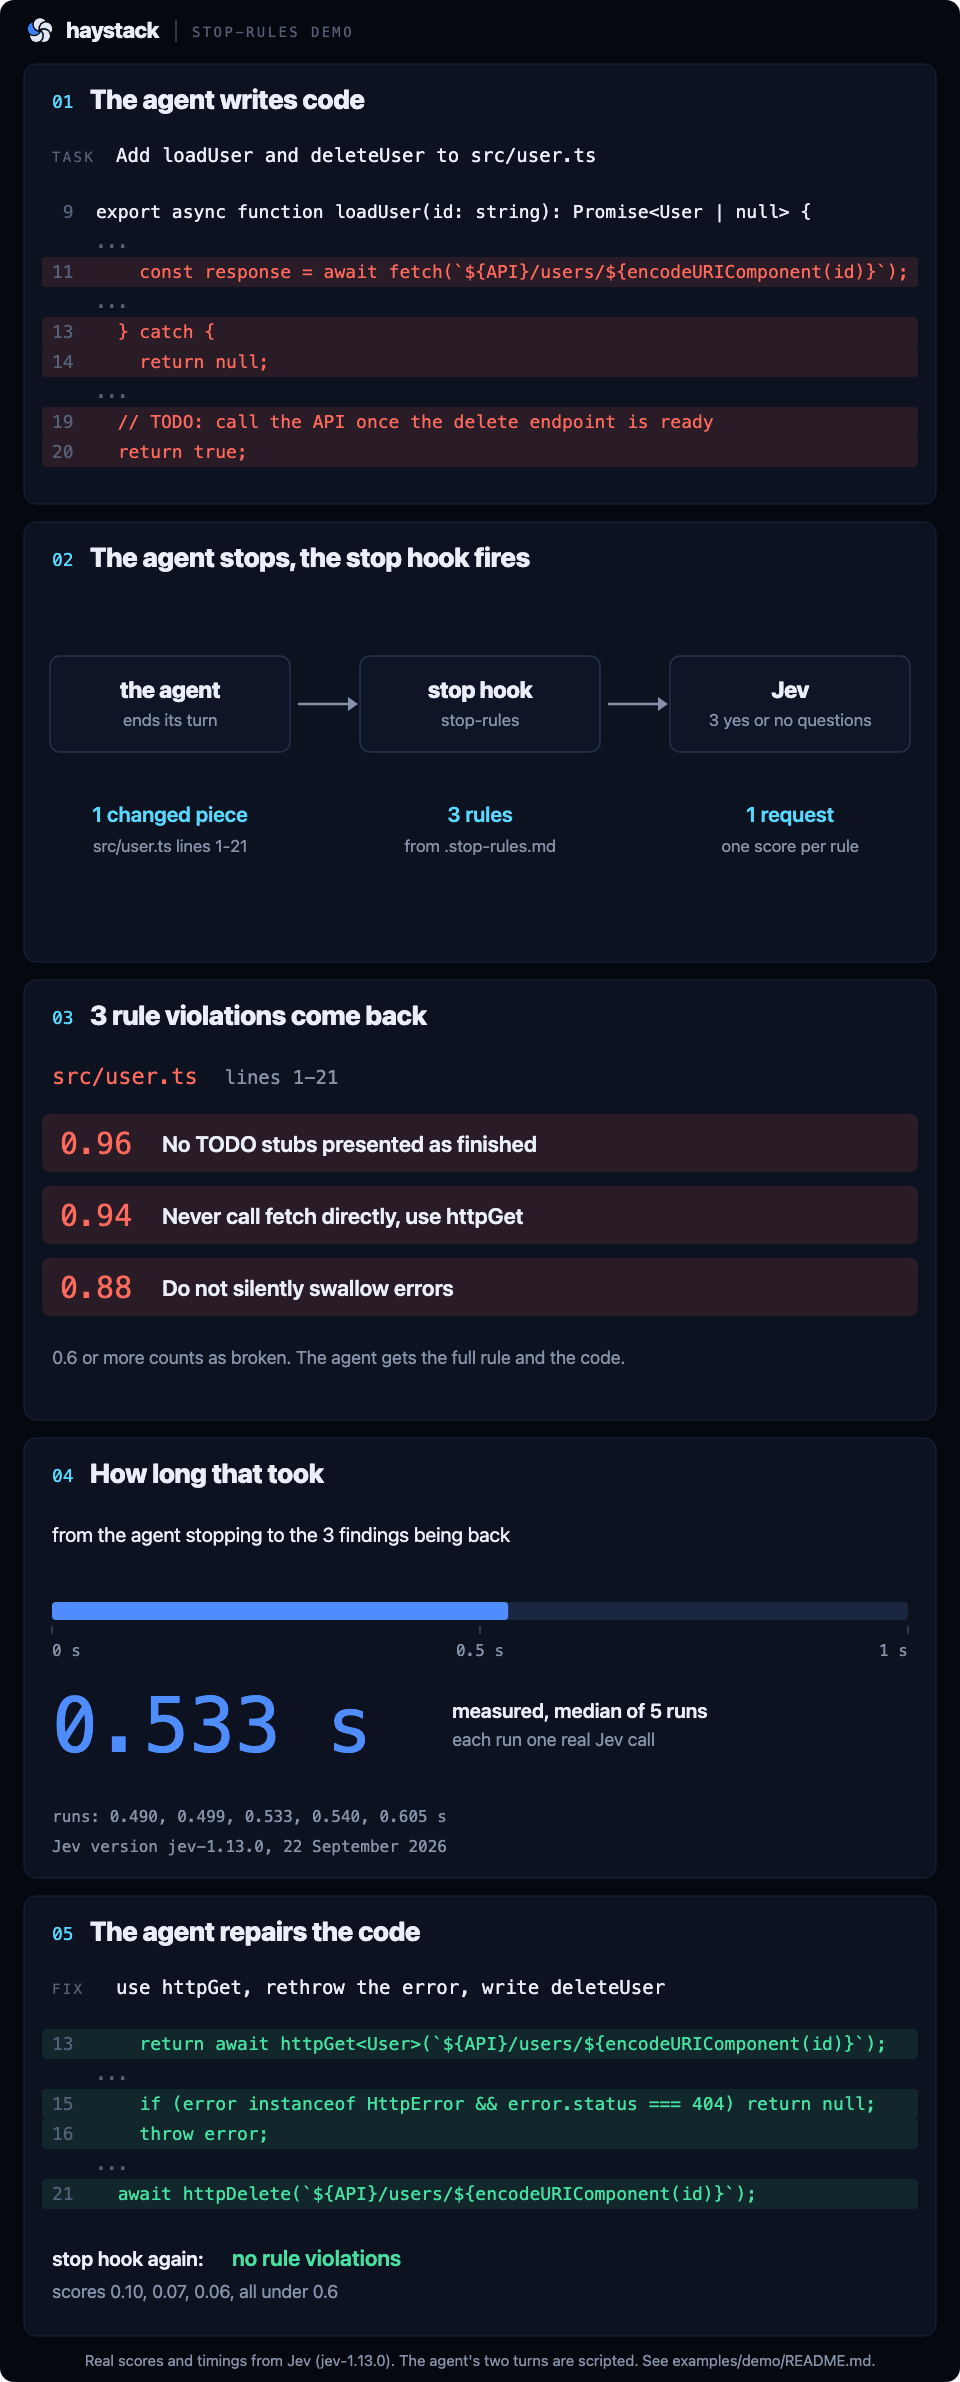
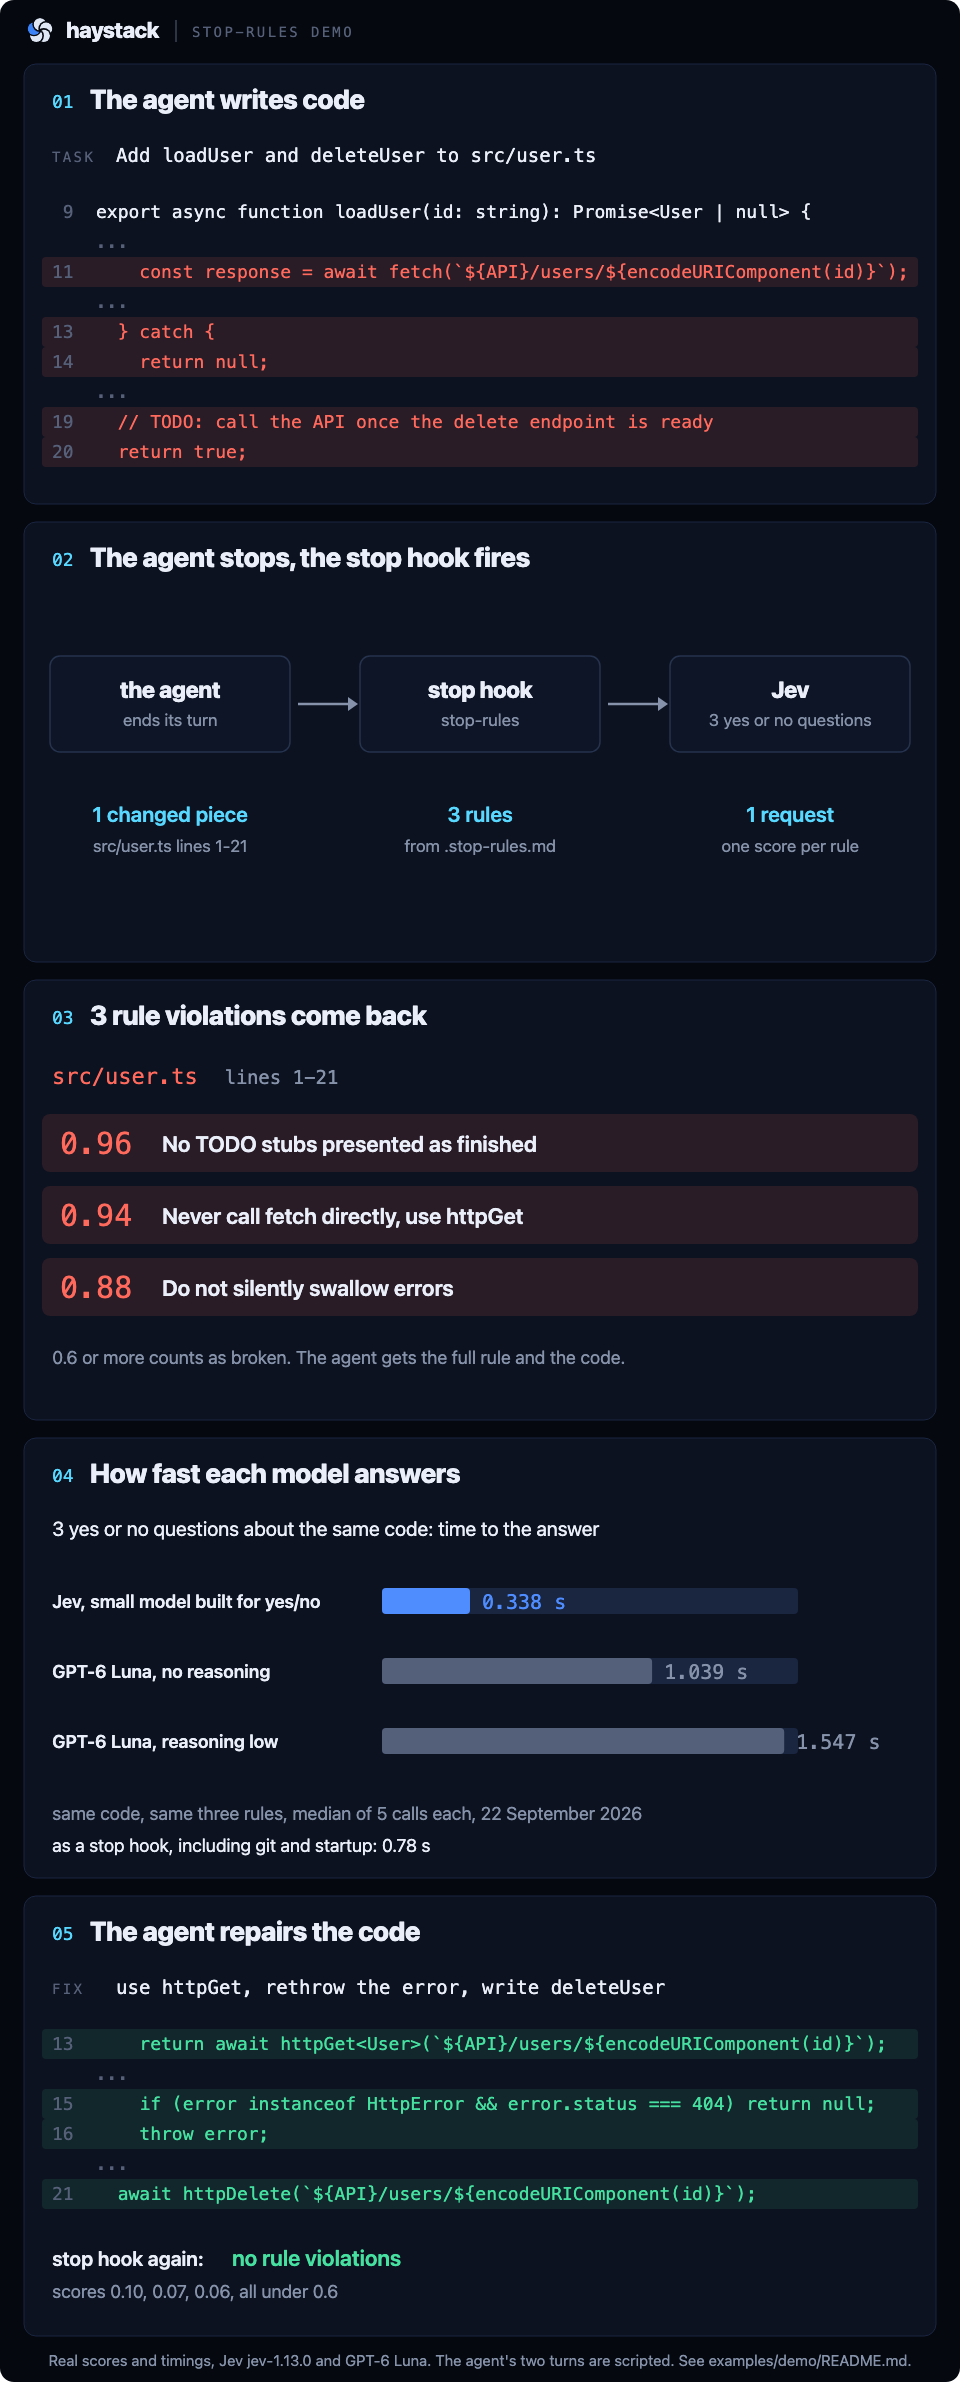
Demo graphic: speed race between model types, 18.5 second loop
Beat 4 now races Jev against GPT-6 Luna on the same piece and the same three rules: bars
grow at real speed from a shared start and stop at each median of 5 calls (Jev jev-1.13.0
0.338 s, GPT-6 Luna no reasoning 1.039 s, reasoning low 1.547 s), with the Jev stop hook end
to end at 0.78 s underneath. The loop is cut from 32 s to 18.5 s with 150 ms fades. The demo
README lists every run per model type.

Changed region(s): [[0.0625, 0.5903, 0.9375, 0.7767], [0.8125, 0.9631, 0.875, 0.9941], [0.1875, 0.9631, 0.2188, 0.9941]]

diff --git a/examples/demo/README.md b/examples/demo/README.md
@@ -1,12 +1,14 @@
 # The stop-rules demo graphic
 
-![stop-rules in five beats: an agent writes code, the stop hook fires, three rules come back broken, the check took 0.533 s, the agent repairs the code and the check is clean](stop-rules-demo.svg)
+![stop-rules in five beats: an agent writes code, the stop hook fires, three rules come back broken, Jev answered in 0.338 s against 1.039 s and 1.547 s for GPT-6 Luna, the agent repairs the code and the check is clean](stop-rules-demo.svg)
 
 The graphic shows one agent turn in a small TypeScript project: the agent adds `src/user.ts`
 with a direct `fetch`, a catch that drops the error and a TODO stub, and ends its turn. The
 stop hook cuts the change into pieces, asks Jev about each of the project's three rules, and
 hands back three findings with their scores. The agent rewrites the code with the project's
-`httpGet` helper, and the same check comes back clean.
+`httpGet` helper, and the same check comes back clean. In between, beat 4 times how long
+each type of model takes to answer the same three questions: Jev, a small model built for yes
+or no questions, and GPT-6 Luna with and without reasoning.
 
 A still version for places that do not play animation is
 [`stop-rules-demo.png`](stop-rules-demo.png), the five beats stacked.
@@ -14,9 +16,9 @@ A still version for places that do not play animation is
 ## What is real and what is scripted
 
 - **Real:** the project, the rules, the findings and scores in beat 3, the clean result in
-  beat 5, and the timings in beat 4. All of it came from the live Jev service on 22 September
+  beat 5, and the timings in beat 4. The scores came from the live Jev service on 22 September
   2026, which reported its version as `jev-1.13.0`, using stop-rules 0.1.0 from this
-  repository.
+  repository. The timings in beat 4 came from Jev and from GPT-6 Luna on the same day.
 - **Scripted:** the agent's two turns. The broken change is
   [`agent-change.diff`](agent-change.diff) and the repair is [`agent-fix.diff`](agent-fix.diff),
   both written by hand and applied with `git apply`. We gave the same task to Claude Code
@@ -59,18 +61,28 @@ and beat 5 the lines that changed. The whole files are the two diffs.
 
 ## The latency
 
-Wall time of `node .stop-rules/stop-rules.mjs check` on the broken change, five runs, each
-with the answer cache deleted first so every run made one real request to Jev. One warm-up run
-before them was not counted. Measured on one Mac with Node 22.23.2.
+Beat 4 races the model types on the same piece of `src/user.ts` and the same three rules,
+each asked the three yes or no questions at once. All of it was measured on 22 September 2026
+within the same hour: 5 timed runs per row, after one warm-up run that was not counted.
 
-| Run | 1 | 2 | 3 | 4 | 5 |
-|---|---|---|---|---|---|
-| Seconds | 0.540 | 0.605 | 0.533 | 0.499 | 0.490 |
+| Model type | Run 1 | Run 2 | Run 3 | Run 4 | Run 5 | Median |
+|---|---|---|---|---|---|---|
+| Jev `jev-1.13.0`, the call alone | 0.338 | 0.429 | 0.400 | 0.332 | 0.329 | **0.338 s** |
+| GPT-6 Luna, reasoning effort none | 1.135 | 1.039 | 1.363 | 1.010 | 0.923 | **1.039 s** |
+| GPT-6 Luna, reasoning effort low | 1.427 | 2.682 | 1.547 | 1.514 | 1.728 | **1.547 s** |
+| Jev, `stop-rules check` end to end | 0.855 | 0.764 | 0.671 | 0.812 | 0.783 | **0.783 s** |
 
-The median is 0.533 s, and that is the number beat 4 lands on. The timer in the graphic runs
-at real speed. This is the time for the check itself. In Claude Code the hook runs in the
-background and the agent is woken with the report, so the time until the agent reads it also
-includes Claude Code's own step, which we did not measure.
+- "The call alone" is the time from sending the request to the last byte of the answer.
+- The GPT-6 Luna rows are one Responses API call each, with strict JSON output, asking the
+  same three questions about the same piece. It scored all three rules as broken on every
+  run, 0.98 or 0.99 each. No medium reasoning effort row was measured.
+- The end-to-end row is the wall time of the whole check process, answer cache deleted first:
+  git, Node startup, cutting the change, the Jev call and printing the report. It is the
+  number the graphic gives as "as a stop hook, including git and startup: 0.78 s".
+- The bars in the graphic grow at real speed from a shared start and stop at each median.
+
+This does not include the time Claude Code takes to wake the agent with the report, which
+was not measured.
 
 ## Run it yourself
 
@@ -94,7 +106,7 @@ Set `TYPESAFE_API_KEY` or `TYPESAFE_API_KEY_FILE` first, or store the key once w
 `stop-rules login --jev-key-stdin`. Use `score` in place of `check` to see every rule's score,
 including the ones under the bar.
 
-To time it the way beat 4 was timed, with the broken change applied:
+To time the end-to-end check the way the last row was timed, with the broken change applied:
 
 ```bash
 cd "$demo"
@@ -110,7 +122,7 @@ Scores move a little between runs and between Jev versions, so yours will not be
 
 | File | What it is |
 |---|---|
-| `stop-rules-demo.svg` | the animated graphic, five beats in a 32 second loop, in Haystack's dark palette |
+| `stop-rules-demo.svg` | the animated graphic, five beats in an 18.5 second loop, in Haystack's dark palette |
 | `stop-rules-demo.png` | the same five beats stacked, as a still image |
 | `stop-rules-demo-static.svg` | the source of that PNG |
 | `project/` | the small TypeScript project: `src/http.ts` holds `httpGet` and `httpDelete`, `src/team.ts` uses them |

diff --git a/README.md b/README.md
@@ -6,7 +6,7 @@ each, and asks [Jev](https://typesafe.ai) one yes or no question per piece and p
 lines of the surrounding file so the question can be answered. If a rule is likely broken, it
 hands that piece of code back to the agent so it fixes it before you see it.
 
-![An agent writes code, the stop hook fires, three rules come back broken, the check took 0.533 s, and the agent repairs the code](examples/demo/stop-rules-demo.svg)
+![An agent writes code, the stop hook fires, three rules come back broken, Jev answers in 0.338 s against 1.039 s for GPT-6 Luna, and the agent repairs the code](examples/demo/stop-rules-demo.svg)
 
 [examples/demo/README.md](examples/demo/README.md) says what the graphic shows, which parts are
 real Jev output and which are scripted, and the commands that reproduce it.
